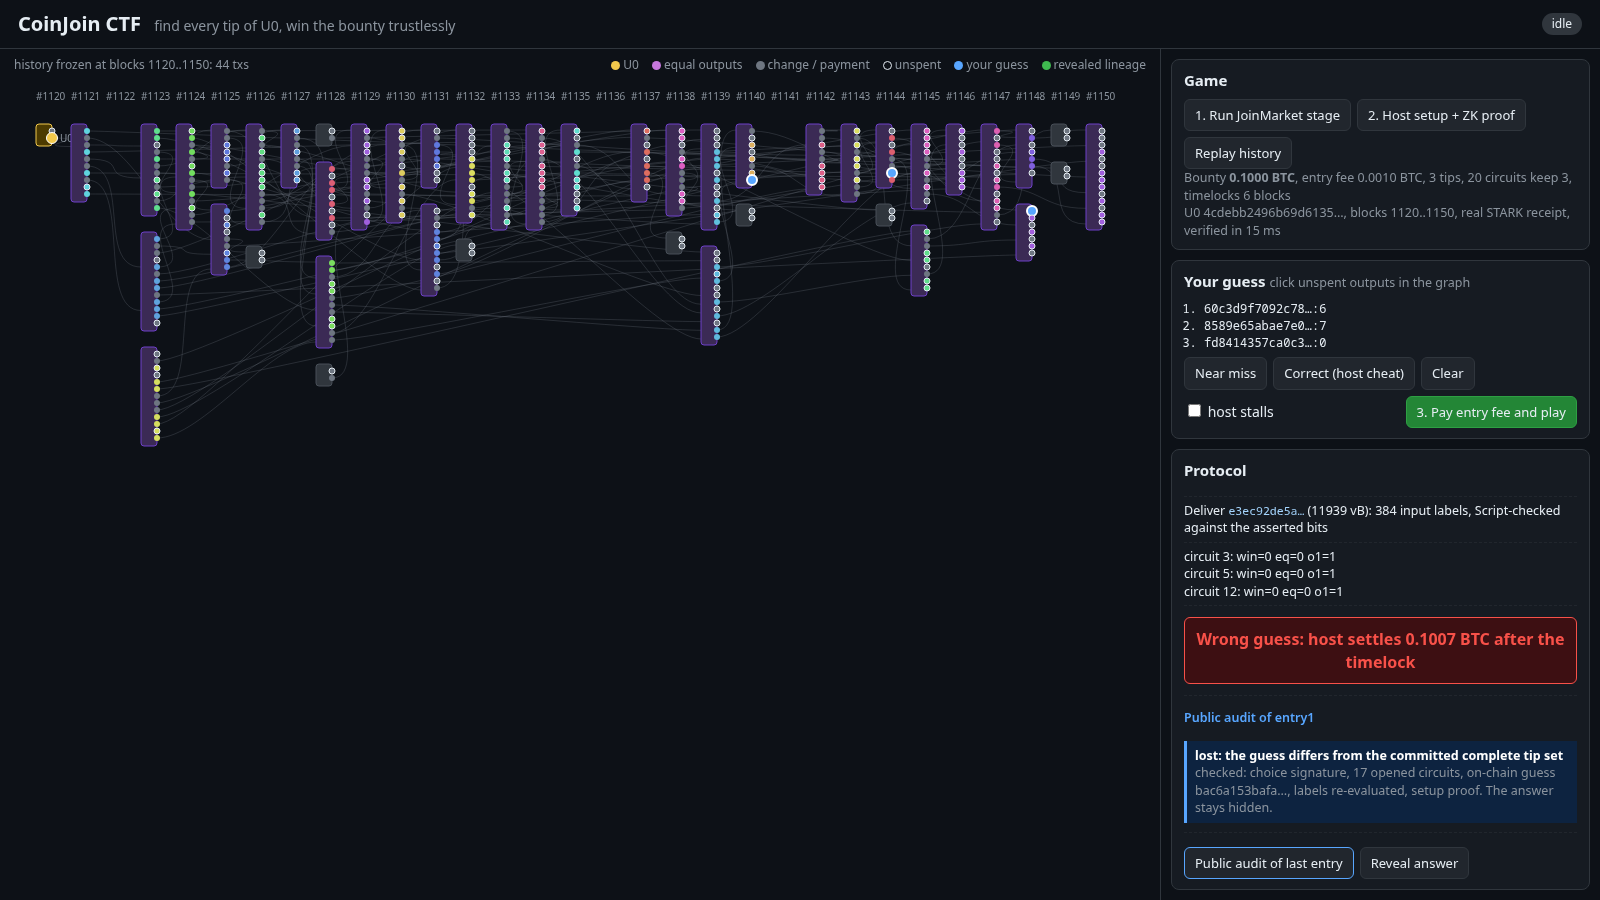
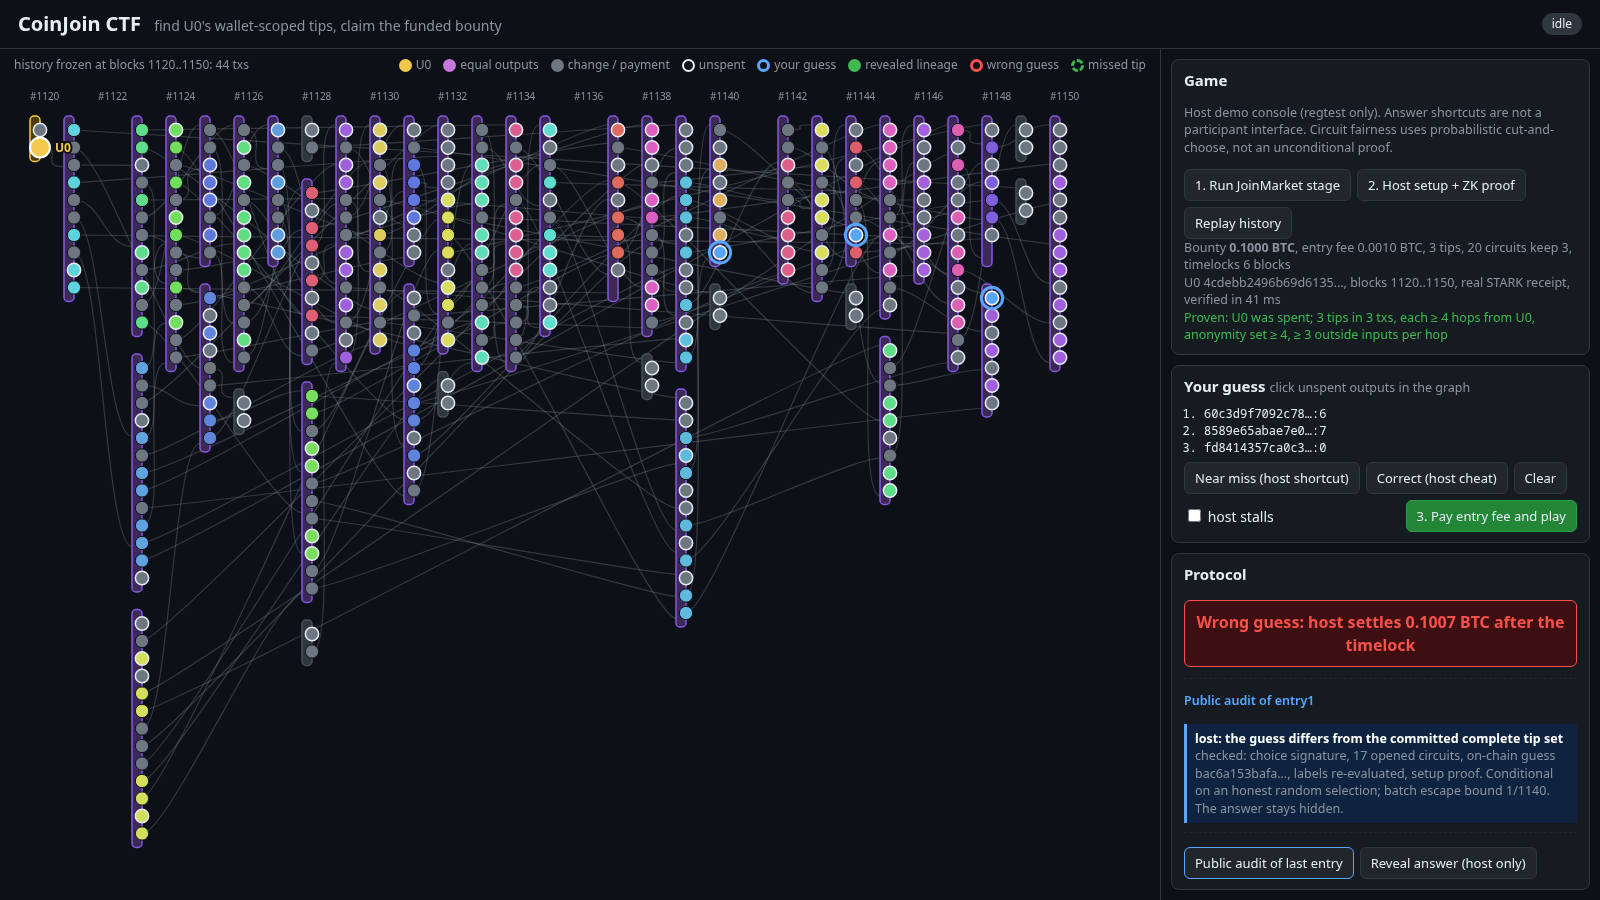
docs: regenerate screenshots with the new graph and describe it

diff --git a/README.md b/README.md
@@ -187,11 +187,12 @@ label hides its bit.
 ## Demo walkthrough
 
 The web UI shows the transaction graph on the left (one column per block, equal-amount outputs
-colored per coinjoin, unspent outputs ringed, U0 in gold) and the protocol on the right.
+colored per coinjoin, unspent outputs ringed, U0 in gold) and the protocol on the right. The graph
+fills the screen, and hovering an output or transaction traces where its coins went.
 
 **1. The frozen history.** About 30 blocks of JoinMarket activity: makers with fidelity bonds,
 random takers, and the host's tumbler hidden among them. The game is published with a real STARK
-receipt that the page verifies in milliseconds.
+receipt that the page verifies in milliseconds, and the proven lineage shape is shown in green.
 
 ![Frozen history](docs/img/history.png)
 
@@ -213,7 +214,8 @@ entry fee plus bounty with the win label, unilaterally.
 ![Win and claim](docs/img/win.png)
 
 **5. Reveal (optional).** After the game, the host can disclose its transactions: the lineage
-from U0 to the tips is drawn in green.
+from U0 to the tips is drawn in green, everything else fades, the tips are labeled with their
+amounts and each guess is marked right, wrong or missed.
 
 ## Trust model and known limits
 
